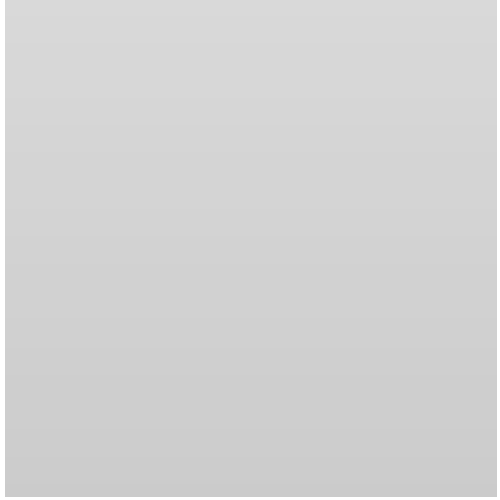
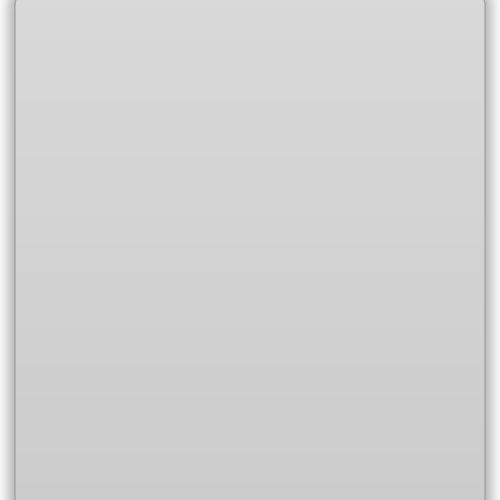
Added paralax and layers on mainmenu

Changed region(s): [[0.0, 0.0, 1.0, 1.0]]

diff --git a/core/src/com/b3/mode/MainMenuScreen.java b/core/src/com/b3/mode/MainMenuScreen.java
@@ -26,9 +26,11 @@ import com.badlogic.gdx.utils.viewport.ScreenViewport;
  */
 public class MainMenuScreen extends ScreenAdapter {
 
-    public static final int ANIMATION_TIMER = 25;
+	public static final int TERT_OFFSET = 250;
 	public static final float MAIN_OFFSET = 100;
-	public static final float SECONDARY_OFFSET = 25;
+	public static final float SECONDARY_OFFSET = MAIN_OFFSET / 4;
+
+	public static final int ANIMATION_TIMER = 25;
 
 	private final Table wrapper;
 
@@ -71,7 +73,9 @@ public class MainMenuScreen extends ScreenAdapter {
 
 		int padding = 5;
 
-		spriteForground = new Sprite(new Texture("icon_final.png"));
+		Texture texture = new Texture("icon_final.png");
+		texture.setFilter(Texture.TextureFilter.Linear, Texture.TextureFilter.Linear);
+		spriteForground = new Sprite(texture);
 		spriteTransForground = new Sprite(new Texture("transparentForeground.png"));
 
 
@@ -157,7 +161,11 @@ public class MainMenuScreen extends ScreenAdapter {
 
 	private void renderForeground() {
 		spriteBatch.begin();
-		spriteBatch.draw(spriteForground, Gdx.graphics.getWidth()/2 - spriteForground.getWidth()/2, Gdx.graphics.getHeight() - 100);
+		spriteBatch.draw(spriteForground,
+				Gdx.graphics.getWidth()/2 - spriteForground.getWidth()/2 + 20 + (float)offsetX / TERT_OFFSET,
+				Gdx.graphics.getHeight() - 100 - (float)offsetY / TERT_OFFSET,
+				spriteForground.getWidth() - 40,
+				spriteForground.getHeight() - 5);
 		spriteBatch.end();
 	}
 
@@ -171,9 +179,9 @@ public class MainMenuScreen extends ScreenAdapter {
 			spriteBatch.begin();
 			spriteBatch.draw(spriteTransForground,
 					(Gdx.graphics.getWidth() / 2 - 250) - (550 * (timer - 1)) / 2 + (float)offsetX/MAIN_OFFSET,
-				Gdx.graphics.getHeight() - Gdx.graphics.getHeight() - (775 * (timer - 1)) / 2 - (float)offsetY/MAIN_OFFSET,
+				Gdx.graphics.getHeight() - Gdx.graphics.getHeight() - 50 - (775 * (timer - 1)) / 2 - (float)offsetY/MAIN_OFFSET,
 				500 * timer,
-				Gdx.graphics.getHeight() * timer
+				Gdx.graphics.getHeight() + 50 * timer
 			);
 			spriteBatch.end();
 		} else {
